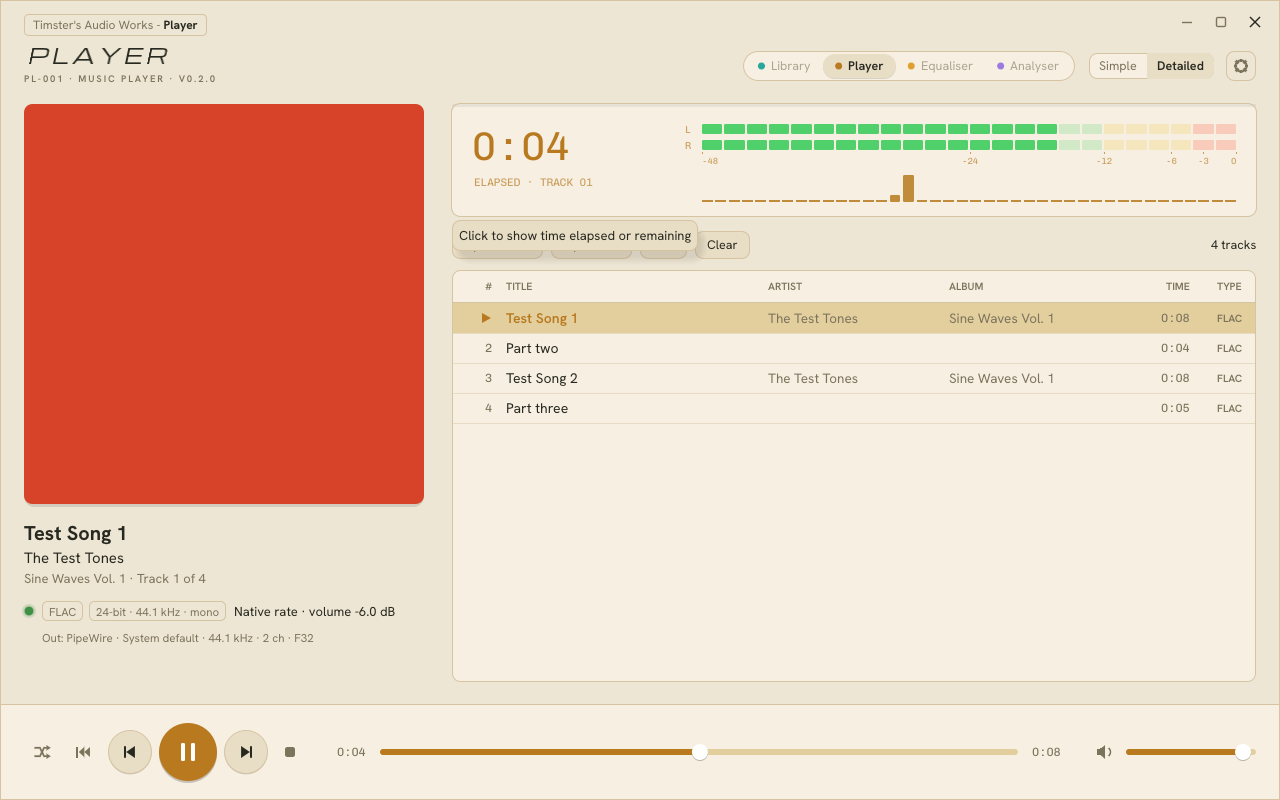
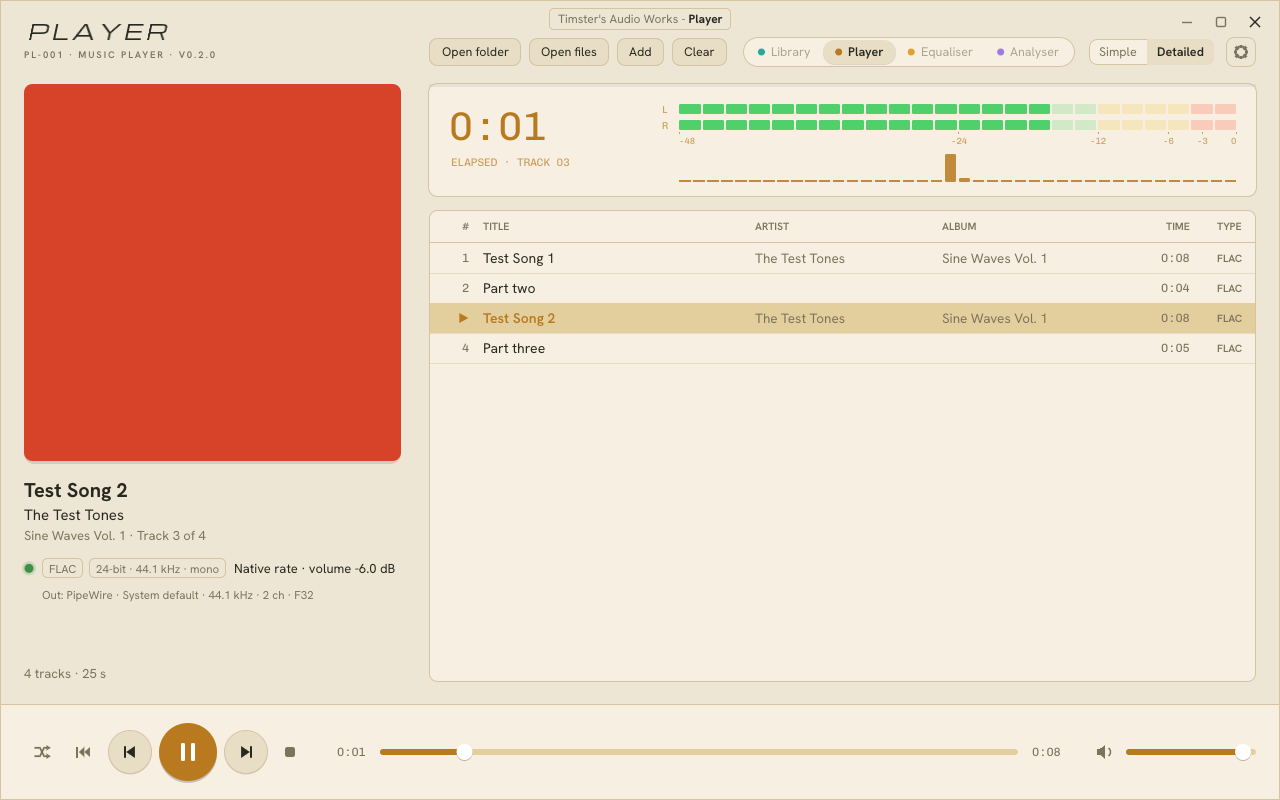
Front panel layout: centred badge, keys on the nameplate row, bigger artwork
At the user's request, before the 0.2.0 release:
- the badge centred along the top edge, the logo and model line higher
  at the left (TAW-Panel 0.3.3's badge and logo);
- Open folder, Open files, Add and Clear on the nameplate's row, over
  the display, in line with the family keys;
- the track count and total time (and messages) under the artwork;
- the display and list move up into the freed space;
- artwork up to 800 x 800, leaving the keys room beside the family keys.

Claude-Session: https://claude.ai/code/session_01HUX5o4URCCrxuRymqTCyp1

diff --git a/src/app.rs b/src/app.rs
@@ -27,7 +27,15 @@ pub const VERSION: &str = env!("CARGO_PKG_VERSION");
 pub const DEFAULT_SIZE: Vec2 = Vec2::new(1280.0, 800.0);
 /// Below this size the panel scales down; above it the list gets the room.
 const MIN_DESIGN: Vec2 = Vec2::new(1180.0, 720.0);
-const PLATE_H: f32 = 96.0;
+const PLATE_H: f32 = 76.0;
+/// The middle of the nameplate's row of keys (family, view, settings, and
+/// the list's keys over the right column).
+const ROW_Y: f32 = 52.0;
+/// Under the artwork: the track, what's happening to it, and the list's
+/// size or the latest message.
+const UNDER_ART: f32 = 220.0;
+/// The artwork stops growing here.
+const ART_MAX: f32 = 800.0;
 const BAR_H: f32 = 96.0;
 const DISPLAY_H: f32 = 112.0;
 const ROW_H: f32 = 30.0;
@@ -888,15 +896,24 @@ impl PlayerApp {
 
     // ------------------------------------------------------------ top
 
-    fn plate(&mut self, ui: &mut Ui, screen: Rect, t: &Tokens) {
+    /// The nameplate and its row of keys. Returns where the family
+    /// switcher begins, so the list's keys can stop short of it.
+    fn plate(&mut self, ui: &mut Ui, screen: Rect, t: &Tokens) -> f32 {
         let now = now(ui);
         let plate = Rect::from_min_size(screen.min, Vec2::new(screen.width(), PLATE_H));
         if !self.s.system_title_bar {
             hifi::drag_to_move(ui, plate);
         }
-        hifi::nameplate(
+        // The badge in the middle of the top edge; the logo up at the left.
+        hifi::badge(
+            ui.painter(),
+            Pos2::new(screen.center().x, screen.top() + 8.0),
+            t,
+            "Player",
+        );
+        hifi::logo(
             ui,
-            screen.min + Vec2::new(24.0, 14.0),
+            screen.min + Vec2::new(24.0, 16.0),
             t,
             "Player",
             &format!("PL-001 · Music player · V{VERSION}"),
@@ -905,7 +922,7 @@ impl PlayerApp {
             hifi::window_buttons(ui, Pos2::new(screen.right() - 10.0, screen.top() + 10.0), t);
         }
         let right = screen.right() - 24.0;
-        let row = screen.top() + 66.0;
+        let row = screen.top() + ROW_Y;
         let gear = Rect::from_min_size(Pos2::new(right - 30.0, row - 15.0), Vec2::splat(30.0));
         if hifi::gear_button(ui, gear, Id::new("settings"), t, self.settings_open).clicked() {
             self.settings_open = !self.settings_open;
@@ -932,7 +949,7 @@ impl PlayerApp {
             found(App::Equaliser),
             found(App::Analyser),
         ];
-        let (_, picked) =
+        let (fam, picked) =
             hifi::family_switch(ui, Pos2::new(seg.left() - 14.0, row), t, 1, installed);
         let app = match picked {
             Some(0) => Some(App::Library),
@@ -943,6 +960,7 @@ impl PlayerApp {
         if let Some(a) = app {
             self.start_family(a, now);
         }
+        fam.left()
     }
 
     // ------------------------------------------------------------ left column
@@ -954,6 +972,9 @@ impl PlayerApp {
             .map(|(i, _, _)| *i)
             .or(self.selected)
             .filter(|&i| i < self.rows.len());
+
+        // The list's size (or the latest message), along the bottom.
+        self.list_summary(ui, rect.left(), rect.bottom(), rect.width(), t);
 
         // Artwork.
         let art = Rect::from_min_size(rect.min, Vec2::splat(rect.width()));
@@ -1275,10 +1296,10 @@ impl PlayerApp {
 
     // ------------------------------------------------------------ list
 
-    fn toolbar(&mut self, ui: &mut Ui, rect: Rect, t: &Tokens) {
+    /// The list's keys, from `left` along the row centred on `y`.
+    fn toolbar(&mut self, ui: &mut Ui, left: f32, y: f32, t: &Tokens) {
         let now = now(ui);
-        let mut x = rect.left();
-        let y = rect.center().y;
+        let mut x = left;
         for (id, s, tip) in [
             (
                 "folder",
@@ -1326,8 +1347,22 @@ impl PlayerApp {
             }
             x += w + 8.0;
         }
+    }
+
+    /// How wide the list's keys are, all told.
+    fn toolbar_width(ui: &Ui) -> f32 {
+        ["Open folder", "Open files", "Add", "Clear"]
+            .iter()
+            .map(|s| hifi::button_width(ui, s) + 8.0)
+            .sum::<f32>()
+            - 8.0
+    }
+
+    /// Under the track: the list's size and length, or for a while after
+    /// something happens, what happened (up to two lines).
+    fn list_summary(&self, ui: &Ui, x: f32, bottom: f32, room: f32, t: &Tokens) {
+        let now = now(ui);
         let p = ui.painter();
-        let room = rect.right() - x - 16.0;
         match &self.message {
             Some((m, at)) if now - at < 10.0 => {
                 // Up to two lines, so a longer message still fits.
@@ -1346,8 +1381,7 @@ impl PlayerApp {
                     overflow_character: Some('…'),
                 };
                 let g = p.layout_job(job);
-                let at = Pos2::new(rect.right() - g.size().x, y - g.size().y / 2.0);
-                p.galley(at, g, t.text);
+                p.galley(Pos2::new(x, bottom - g.size().y), g, t.text);
             }
             _ if !self.rows.is_empty() => {
                 let n = self.rows.len();
@@ -1358,8 +1392,8 @@ impl PlayerApp {
                 }
                 hifi::label_fit(
                     p,
-                    Pos2::new(rect.right(), y),
-                    Align2::RIGHT_CENTER,
+                    Pos2::new(x, bottom),
+                    Align2::LEFT_BOTTOM,
                     &s,
                     hifi::ui_font(13.0),
                     t.dim,
@@ -1874,8 +1908,11 @@ fn window_handle(cc: &eframe::CreationContext<'_>) -> Option<*mut std::ffi::c_vo
     }
 }
 
-/// "39 min", "1 h 12 min".
+/// "25 s", "39 min", "1 h 12 min".
 fn duration_words(secs: f64) -> String {
+    if secs < 59.5 {
+        return format!("{} s", secs.round().max(1.0) as u64);
+    }
     let m = (secs / 60.0).round() as u64;
     if m >= 60 {
         format!("{} h {} min", m / 60, m % 60)
@@ -2139,7 +2176,7 @@ impl eframe::App for PlayerApp {
 
         let screen = ui.max_rect();
         hifi::faceplate(ui.painter(), screen, &t);
-        self.plate(ui, screen, &t);
+        let family_left = self.plate(ui, screen, &t);
         let bar = Rect::from_min_max(
             Pos2::new(screen.left(), screen.bottom() - BAR_H),
             screen.max,
@@ -2154,8 +2191,12 @@ impl eframe::App for PlayerApp {
             Pos2::new(screen.left() + 24.0, screen.top() + PLATE_H + 8.0),
             Pos2::new(screen.right() - 24.0, bar.top() - 22.0),
         );
-        // The artwork is as big as the height allows, within reason.
-        let left_w = (body.height() - 170.0).clamp(240.0, 400.0);
+        // The artwork is as big as the height allows, up to 800, leaving
+        // the list's keys room on the nameplate's row beside the family
+        // switcher.
+        let tools_w = Self::toolbar_width(ui);
+        let room = family_left - 16.0 - tools_w - 28.0 - body.left();
+        let left_w = (body.height() - UNDER_ART).min(room).clamp(240.0, ART_MAX);
         let left = Rect::from_min_size(body.min, Vec2::new(left_w, body.height()));
         self.left(ui, left, &t);
         let mut right = Rect::from_min_max(Pos2::new(left.right() + 28.0, body.top()), body.max);
@@ -2164,9 +2205,7 @@ impl eframe::App for PlayerApp {
             self.display(ui, d, &t);
             right.min.y = d.bottom() + 14.0;
         }
-        let tools = Rect::from_min_size(right.min, Vec2::new(right.width(), 30.0));
-        self.toolbar(ui, tools, &t);
-        right.min.y = tools.bottom() + 10.0;
+        self.toolbar(ui, right.left(), screen.top() + ROW_Y, &t);
         self.playlist(ui, right, &t);
 
         self.settings(&ctx, &t);

diff --git a/HANDOFF.md b/HANDOFF.md
@@ -4,7 +4,7 @@ Written 2026-10-14 when the family's work moved from one shared chat to a chat p
 
 ## Where it stands
 
-- **0.2.0 built on 2026-10-15** (branch `claude/kind-johnson-du69z8`), from the Linux Mint test of 0.1.0 (brief in `docs/briefs/2026-10-14-0.2.0.md`): opening music waits for Play unless Settings says otherwise (`--play` always plays); Add, and Shift while dropping, add to the end of the list, gaplessly if it's still playing; a dB scale under the meters (TAW-Panel 0.3.2's `meter_scale`); the meters centred with the spectrum off; media keys and the desktop's media controls (MPRIS checked with `playerctl` under PipeWire; SMTC compiles but is untested on Windows); back to start (Home); and the bottom-corner resize. That last was in TAW-Panel (`resize_edges`): the corners lost to the edges in egui's hit test, and after any window drag egui kept the old drag because the window manager eats the button release, so every other resize did nothing. Fixed in TAW-Panel 0.3.2 (commit `5290f15`, branch `claude/kind-johnson-du69z8` there: merge it with a merge commit, not a squash, so the pin stays valid). The Library, Equaliser and Analyser have the same resize bug until they move to 0.3.2.
+- **0.2.0 built on 2026-10-15** (branch `claude/kind-johnson-du69z8`), from the Linux Mint test of 0.1.0 (brief in `docs/briefs/2026-10-14-0.2.0.md`): opening music waits for Play unless Settings says otherwise (`--play` always plays); Add, and Shift while dropping, add to the end of the list, gaplessly if it's still playing; a dB scale under the meters (TAW-Panel 0.3.2's `meter_scale`); the meters centred with the spectrum off; media keys and the desktop's media controls (MPRIS checked with `playerctl` under PipeWire; SMTC compiles but is untested on Windows); back to start (Home); and the bottom-corner resize. Then, at the user's request, a new layout for the panel: the badge centred along the top (TAW-Panel 0.3.3's `badge` and `logo`), the list's keys on the nameplate's row over the display, the list's size under the artwork, and artwork up to 800 × 800 (the artwork column also leaves the list's keys room beside the family switcher). The corner resize was in TAW-Panel (`resize_edges`): the corners lost to the edges in egui's hit test, and after any window drag egui kept the old drag because the window manager eats the button release, so every other resize did nothing. Fixed in TAW-Panel 0.3.2 (commit `5290f15`, branch `claude/kind-johnson-du69z8` there: merge it with a merge commit, not a squash, so the pin stays valid). The Library, Equaliser and Analyser have the same resize bug until they move to 0.3.2 or later. The Player pins TAW-Panel 0.3.3 (`3cf1181`).
 
 - **0.1.0 released on 2026-10-14**: `main` was created from branch `claude/focused-ritchie-veg4m9`, and release.yml publishes `v0.1.0` with the Linux and Windows downloads.
 - Works: folders, files and M3U/M3U8; FLAC, MP3, WAV, AIFF, ALAC/AAC M4A, Ogg Vorbis; gapless (measured seamless with sine test tracks); native rate where the output allows it, honest "Resampled to …" when not; tags and artwork; meters and spectrum; hand-off from a second launch (the Library's Play key); family switcher.

diff --git a/ROADMAP.md b/ROADMAP.md
@@ -8,7 +8,7 @@ Where the items below land, release by release. Sizes: S = one session, M = two 
 
 | Release | What | Needs | Size |
 |---|---|---|---|
-| 0.2.0 ✓ | **Released 2026-10-15.** Feedback from the 0.1.0 test on Linux Mint** ([brief](docs/briefs/2026-10-14-0.2.0.md)): don't start playing on open (a setting, off by default; `--play` still plays); an Add key to append to the list; a dB scale on the meters; meters centred when the spectrum is off; media keys and system media controls (MPRIS, SMTC); the bottom-corner resize; the back-to-start key | TAW-Panel 0.3.2 (meter scale; the resize fix) | M |
+| 0.2.0 ✓ | **Released 2026-10-15.** Feedback from the 0.1.0 test on Linux Mint** ([brief](docs/briefs/2026-10-14-0.2.0.md)): don't start playing on open (a setting, off by default; `--play` still plays); an Add key to append to the list; a dB scale on the meters; meters centred when the spectrum is off; media keys and system media controls (MPRIS, SMTC); the bottom-corner resize; the back-to-start key | TAW-Panel 0.3.3 (meter scale; the resize fix; the badge on its own) | M |
 | 0.3.0 | WASAPI exclusive mode; gapless across a rate change where the device allows | A real Windows test | L |
 | 0.4.0 | Now Playing and Mini layouts; Spool's meter scale and peak hold; the VU window; resizable list columns | TAW-Panel 0.4.0 and 0.5.0 | M |
 | 0.5.0 | Playlist editing (reorder, remove, save as M3U8); remember the list and position; CUE sheets | — | M–L |

diff --git a/docs/ARCHITECTURE.md b/docs/ARCHITECTURE.md
@@ -36,7 +36,7 @@ It runs on the audio thread and must never lock, allocate, log or touch files. E
 
 ## The panel (`app.rs`)
 
-Laid out for 1180 × 720 and up, scaled down to fit smaller windows (never up: a bigger window gives the artwork and the list more room), drawn with TAW-Panel's `hifi` look. The Player draws its own title strip, window buttons and resize edges unless Settings turns the system title bar on. It polls the engine's `Status` (marks, output, messages, a new spectrum feed after the output reopens) each frame, the tag reader's results, and the inbox. While playing it repaints about 30 times a second; otherwise twice a second, to notice hand-overs from the Library.
+Laid out for 1180 × 720 and up, scaled down to fit smaller windows (never up: a bigger window gives the artwork, up to 800 × 800, and the list more room; the artwork's column also stops short of pushing the list's keys into the family switcher on the nameplate's row), drawn with TAW-Panel's `hifi` look. The Player draws its own title strip, window buttons and resize edges unless Settings turns the system title bar on. It polls the engine's `Status` (marks, output, messages, a new spectrum feed after the output reopens) each frame, the tag reader's results, and the inbox. While playing it repaints about 30 times a second; otherwise twice a second, to notice hand-overs from the Library.
 
 ## Media keys (`media.rs`)
 

diff --git a/CHANGELOG.md b/CHANGELOG.md
@@ -12,6 +12,7 @@ From the 0.1.0 test on Linux Mint.
 - With the spectrum off, the meters sit in the middle of the display.
 - Media keys and the desktop's media controls: play, pause, next, previous, stop and seeking from the keyboard's media keys, the sound menu (MPRIS on Linux, `playerctl` too) and Windows' media overlay, which show the track's title, artist, album, length and artwork.
 - Back to start (|◀◀ next to Previous, or Home): back to the first track of the list, as in Spool.
+- A tidier front panel: the "Timster's Audio Works - Player" badge sits in the middle of the top edge, with the PLAYER logo and model line up at the left; Open folder, Open files, Add and Clear are on the nameplate's row over the display, in line with the family keys; the track count and total time (and messages) are under the artwork with the track; the display and the list move up; and the artwork grows with the window up to 800 × 800 (TAW-Panel 0.3.3).
 - The window resizes from all four corners, and every time; before, a corner moved only one side, and every other resize or move did nothing (TAW-Panel 0.3.2).
 
 ## 0.1.0 – 2026-10-14
